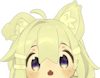
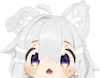
add hover for foreground peek

diff --git a/src/lib/Foreground.svelte b/src/lib/Foreground.svelte
@@ -1,10 +1,17 @@
-<img class="foreground" src="/images/foreground-peek.png" alt="peek"/>
+<div>&nbsp;</div>
 
 <style>
-    img {
+    div {
         position: fixed;
         bottom: 0;
         right: 30px;
         z-index: 99;
+        width: 100px;
+        height: 78px;
+        background-image: url("/images/foreground-peek.png");
+    }
+
+    div:hover {
+        background-image: url("/images/foreground-peek-hover.png");
     }
 </style>
